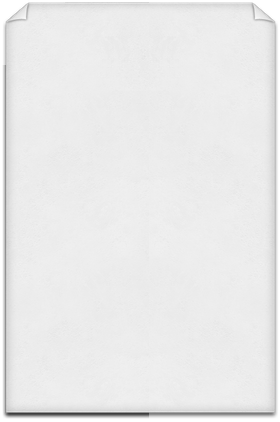
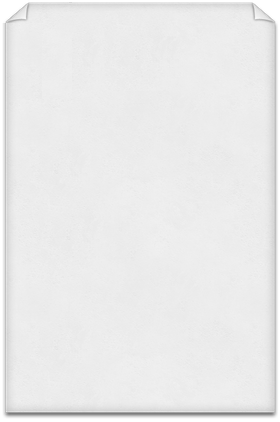
Another envelope

Changed region(s): [[0.0, 0.154, 0.5429, 1.0]]

diff --git a/templates/stories/stories.html b/templates/stories/stories.html
@@ -149,6 +149,27 @@ h2.stories-header {
     background: url('/images/stories/envelope-3-back-foreground.png') no-repeat;
 }
 
+.story.envelope-4 {
+    width: 300px;
+}
+.story.envelope-4 .content-teaser {
+    padding: 20px 9px 9px 9px;
+    height: 110px;
+    width: 252px;
+
+    background: url('/images/stories/stationary-3.png') no-repeat top right;
+}
+.story.envelope-4 .envelope {
+    width: 300px;
+    height: 196px;
+}
+.story.envelope-4 .envelope-background {
+    background: url('/images/stories/envelope-4-back-background.png') no-repeat;
+}
+.story.envelope-4 .envelope-foreground {
+    background: url('/images/stories/envelope-4-back-foreground.png') no-repeat;
+}
+
 
 
 
@@ -221,7 +242,7 @@ h2.stories-header {
 .story .content-teaser .youtube-thumbnail-title {
     position: absolute;
     top: 20px;
-    left: 34px;
+    left: 30px;
     padding: 2px 6px;
     width: 198px;
     font-size: 14px;

diff --git a/javascript/stories-package/stories.js b/javascript/stories-package/stories.js
@@ -52,7 +52,7 @@ Stories.SmallView = Backbone.View.extend({
             .addClass("story-container")
             .find(".story")
                 .addClass(ix % 2 == 0 ? "rotate-5" : (ix % 3 == 0 ? "rotate-neg-7" : "rotate-neg-7"))
-                .addClass("envelope-" + ((ix % 3) + 1))
+                .addClass("envelope-" + ((ix % 4) + 1))
                 .click(function() { Stories.navigateTo(model); });
 
         return this;
